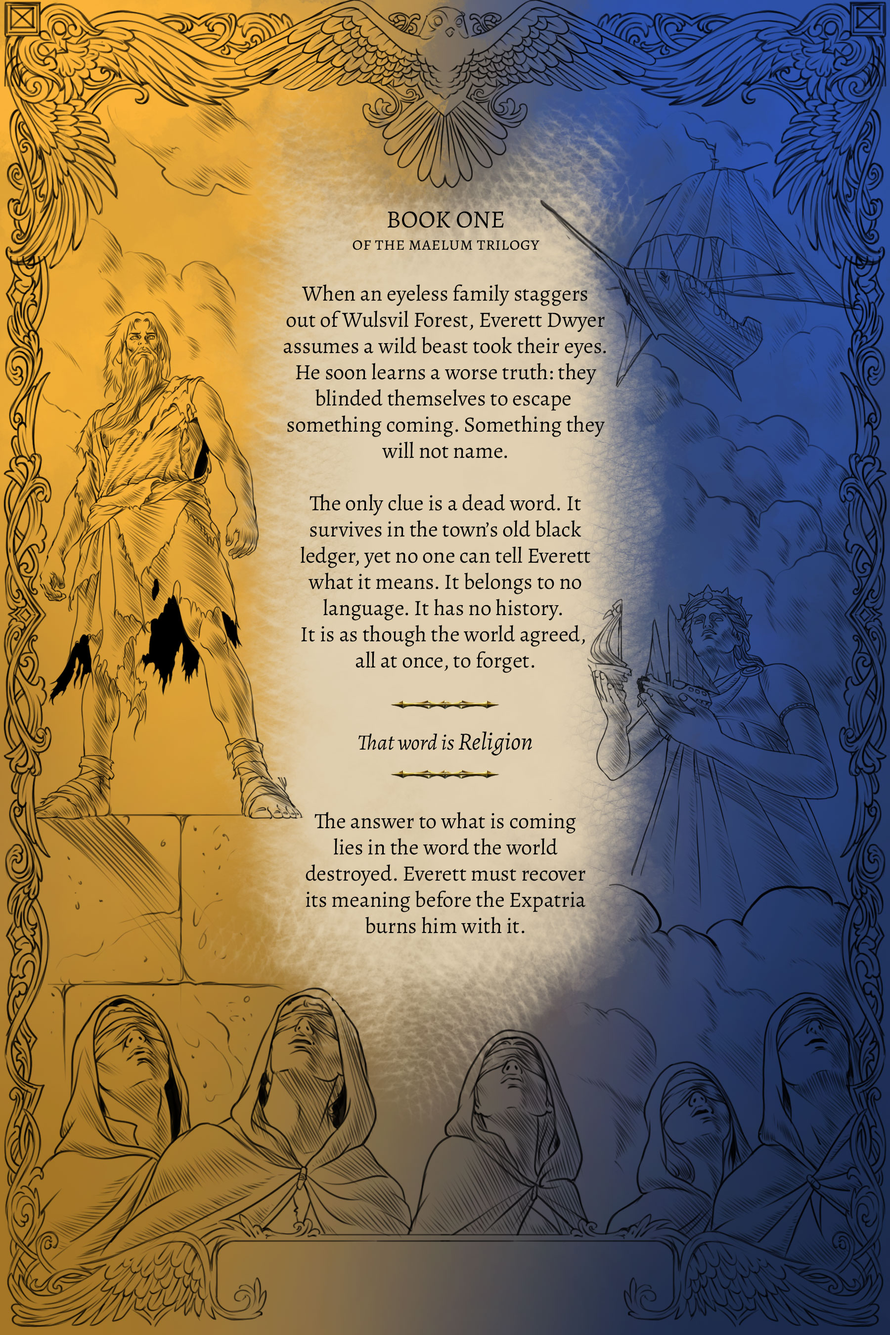
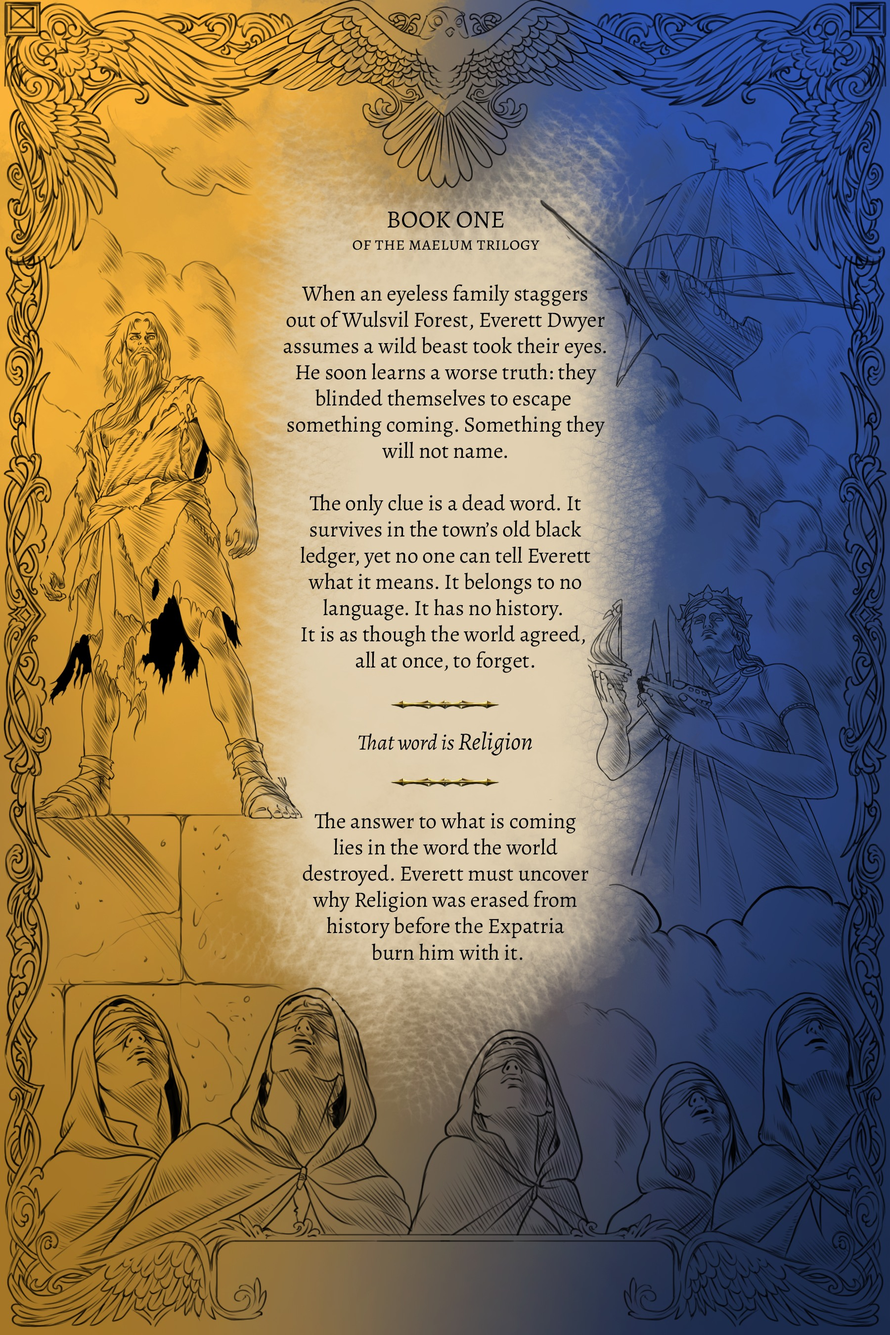
Replace Book 1 desktop wraparound and mobile back cover with brightened artwork
Renders the new wraparound PDF and back-cover TIFF supplied in brand_assets
into web-ready JPEGs so the outdated back-cover text (which still had the old
blurb ending) no longer appears anywhere on the site.

Changed region(s): [[0.3422, 0.6533, 0.6533, 0.7156], [0.4356, 0.56, 0.56, 0.5911]]

diff --git a/book1/index.html b/book1/index.html
@@ -120,8 +120,8 @@
   <section class="book1-desktop" aria-label="The Burned Name, full wraparound cover">
     <img
       class="book1-wrap-img"
-      src="../brand_assets/Book 1 Wrap Around Cover.png"
-      width="1840" height="1298"
+      src="../brand_assets/Book 1 Wrap Around Cover.jpg"
+      width="2760" height="1955"
       alt="The Burned Name wraparound cover: front cover, spine, and back cover synopsis.">
     <div class="cta-block">
       <a class="ornate-btn" href="https://mybook.to/theburnedname" target="_blank" rel="noopener noreferrer" data-config-key="bookOnePurchaseUrl">Buy The Book <span aria-hidden="true">&rarr;</span></a>
